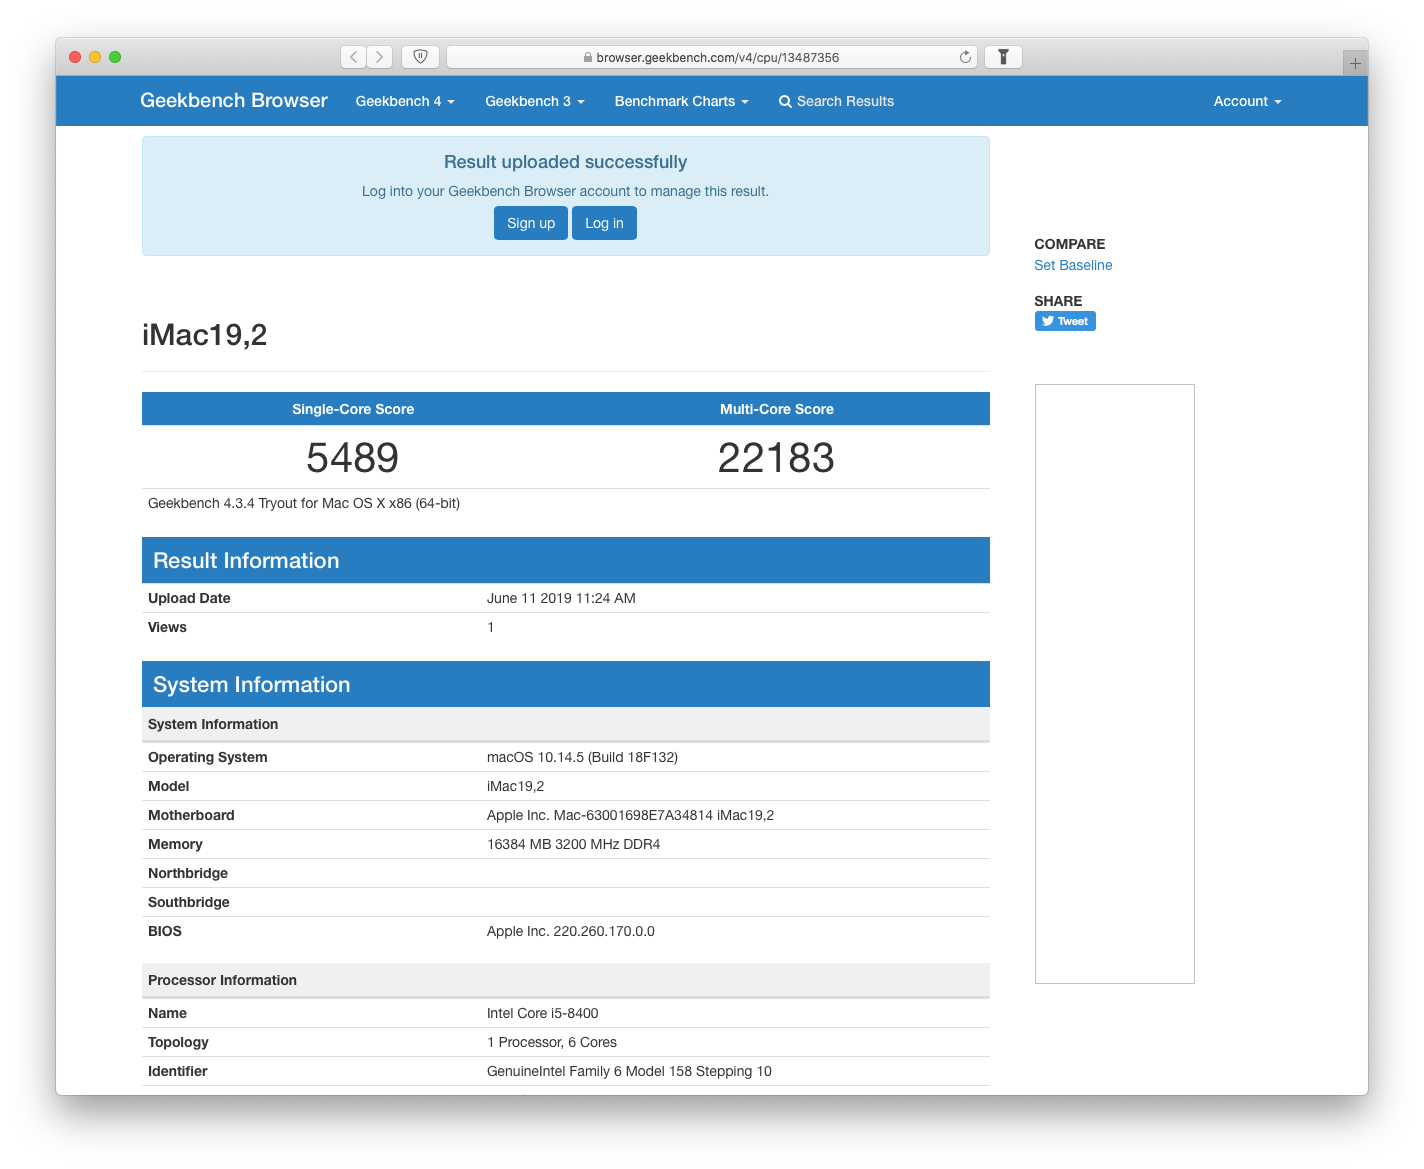
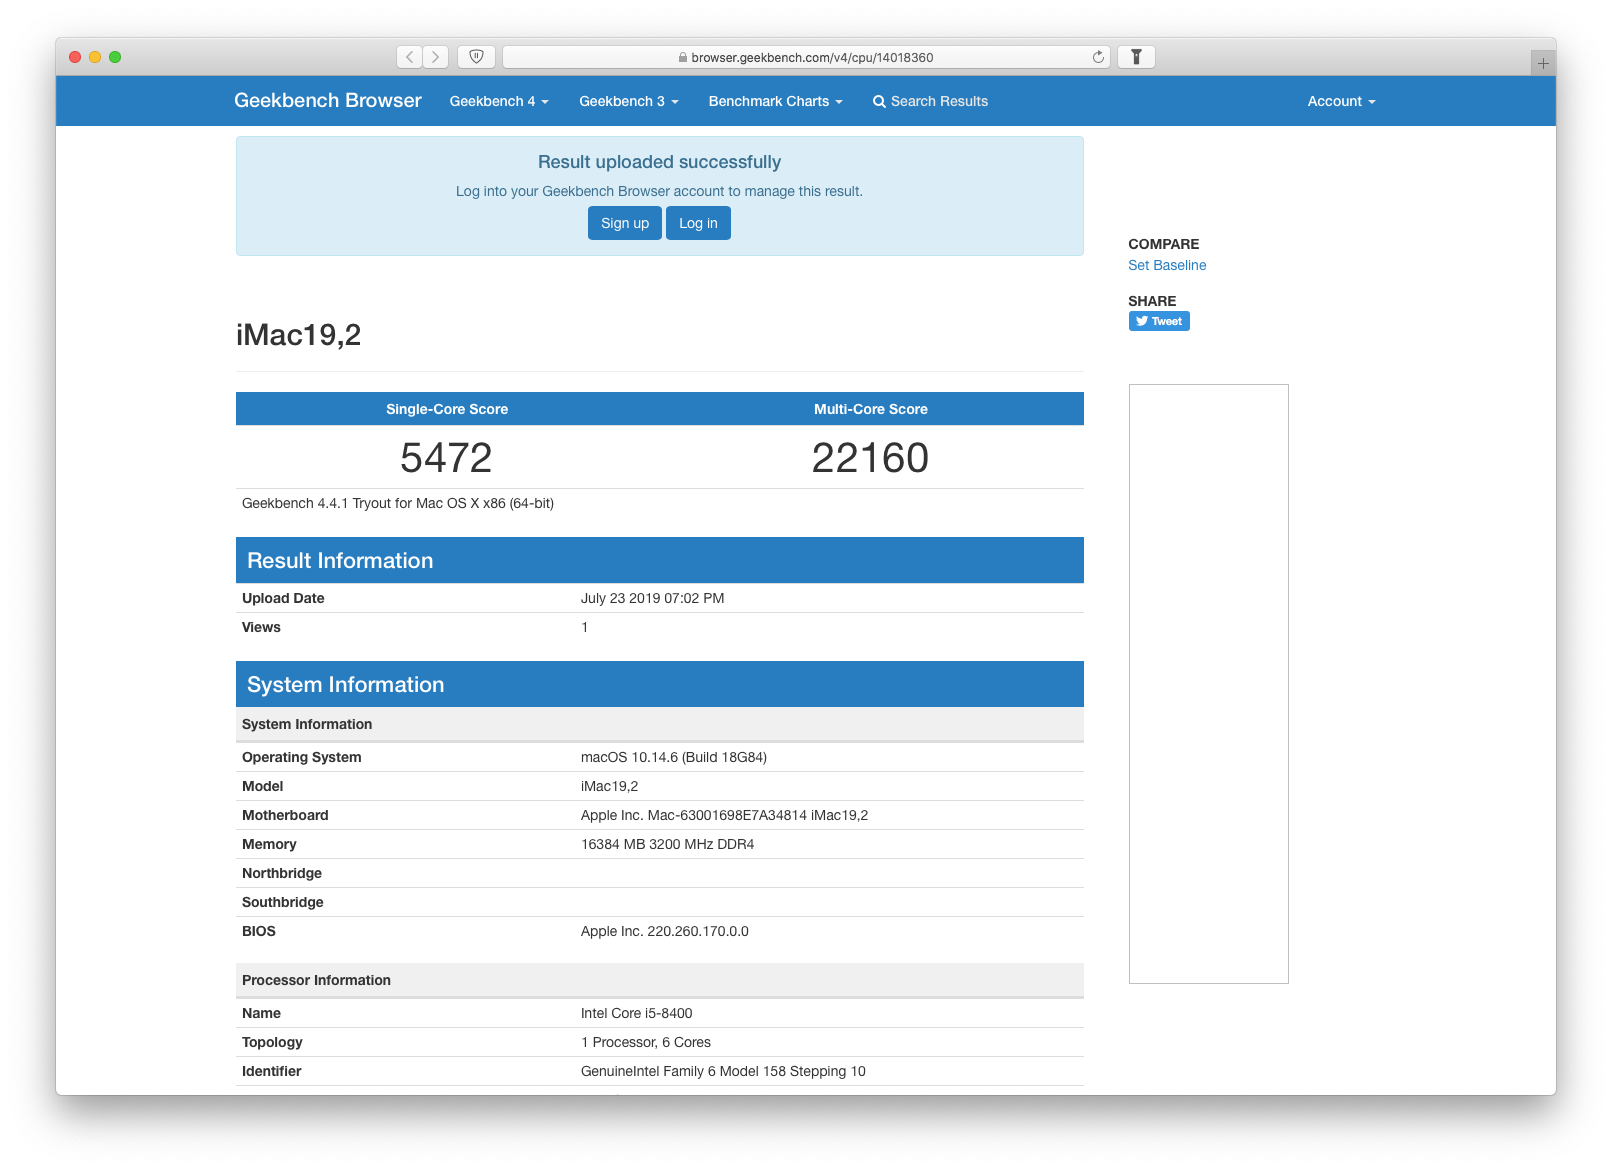
updated to 10.14.6

diff --git a/README.md b/README.md
@@ -4,7 +4,7 @@
 
 I built my Hackintosh because I was disappointed with the price of the new Mac Mini 2018. Its configuration is close to the new mid-entry Mac Mini but with more RAM (16 instead of 8 Gb). Here are the specs:
 
-- MacOS Mojave 10.14.5
+- MacOS Mojave 10.14.6
 - Intel i5-8400 (6 cores @ 2.80 Ghz, 3.80 Ghz Turbo Boost)
 - Gigabyte Z370-HD3P
 - Corsair Vengeance LPX 16Gb (2x8Gb) DDR4 2666MHz OC @ 3200 Mhz (CMK16GX4M2A2666C16)
@@ -25,7 +25,7 @@ You can basically download the config file provided at the end of the vanilla gu
 
 ## My EFI
 
-if you use my EFI folder & BIOS Settings, there are two things you need to do. First, you need to generate by yourself your serials and put them in your `config.plist`. You can use [macserial](https://github.com/acidanthera/macserial) to generate serials for the model you picked. I first chose `Macmini8,1` because my config was similar to the new Mac Mini model but I recently changed my SMBIOS to `iMac19,2` due to the black screen issue I was having while watching videos in full screen.
+if you use my EFI folder & BIOS Settings, there are two things you need to do. First, you need to generate by yourself your serials and put them in your `config.plist`. You can use [macserial](https://github.com/acidanthera/macserial) to generate serials for the model you picked. I first chose `Macmini8,1` because my config was similar to the new Mac Mini model but I recently changed my SMBIOS to `iMac19,2` due to the black screen issue I was having while watching videos in full screen. (**Update:** Apparently this was a bug on macOS and it has been fixed in 10.14.6)
 
 Secondly, I switched from using the USB Port limit patch to a custom SSDT. You can find my template file and the compiled `SSDT-UIAC.aml` file in the [SSDT Folder](SSDT). In my case, I decided to disable every port that are considered on the "front" as I only use the USB Ports on the back of the motherboard.
 
@@ -41,6 +41,6 @@ You can find my BIOS Settings with pictures [here](BIOS/README.md).
 
 ![Geekbench](https://raw.githubusercontent.com/kinoute/Hack-Z370-HD3P-i5-8400/master/Pictures/geekbench.png)
 
-Link: https://browser.geekbench.com/v4/cpu/13487356
+Link: https://browser.geekbench.com/v4/cpu/14018360
 
 
